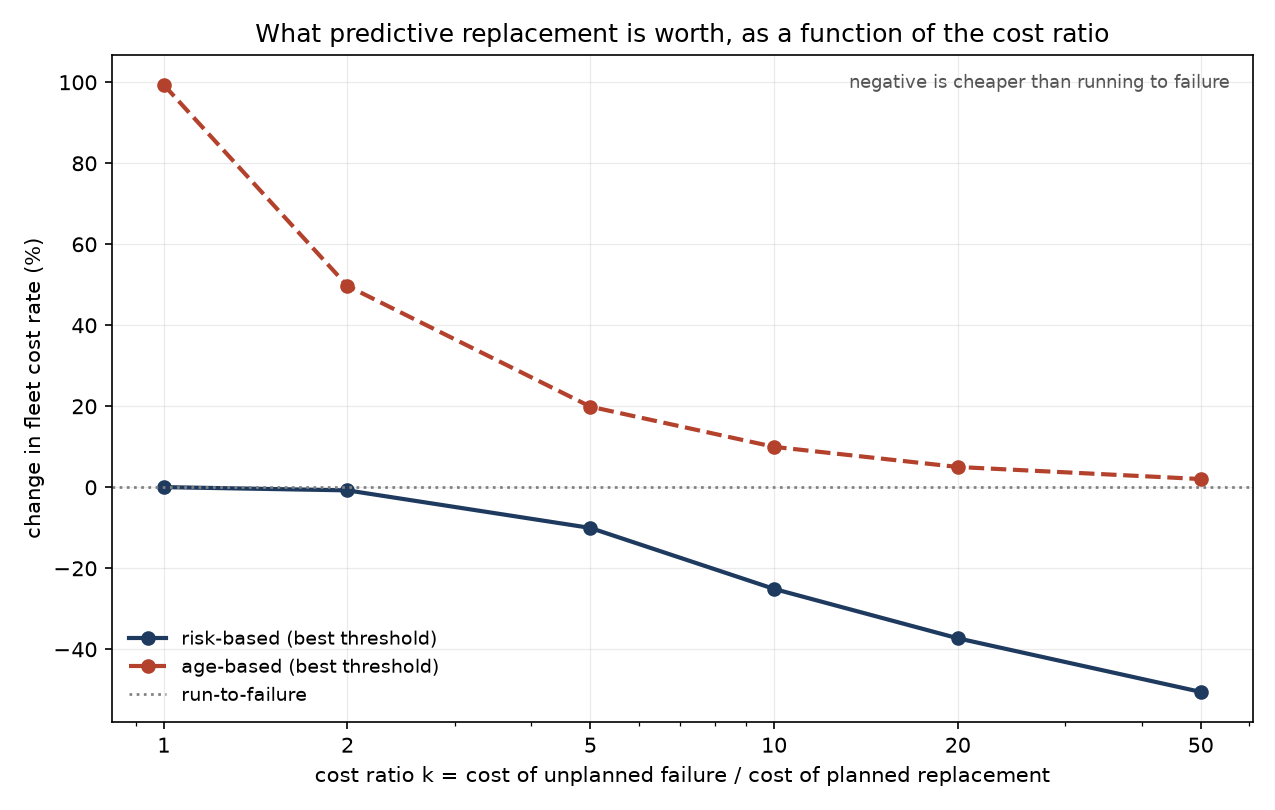
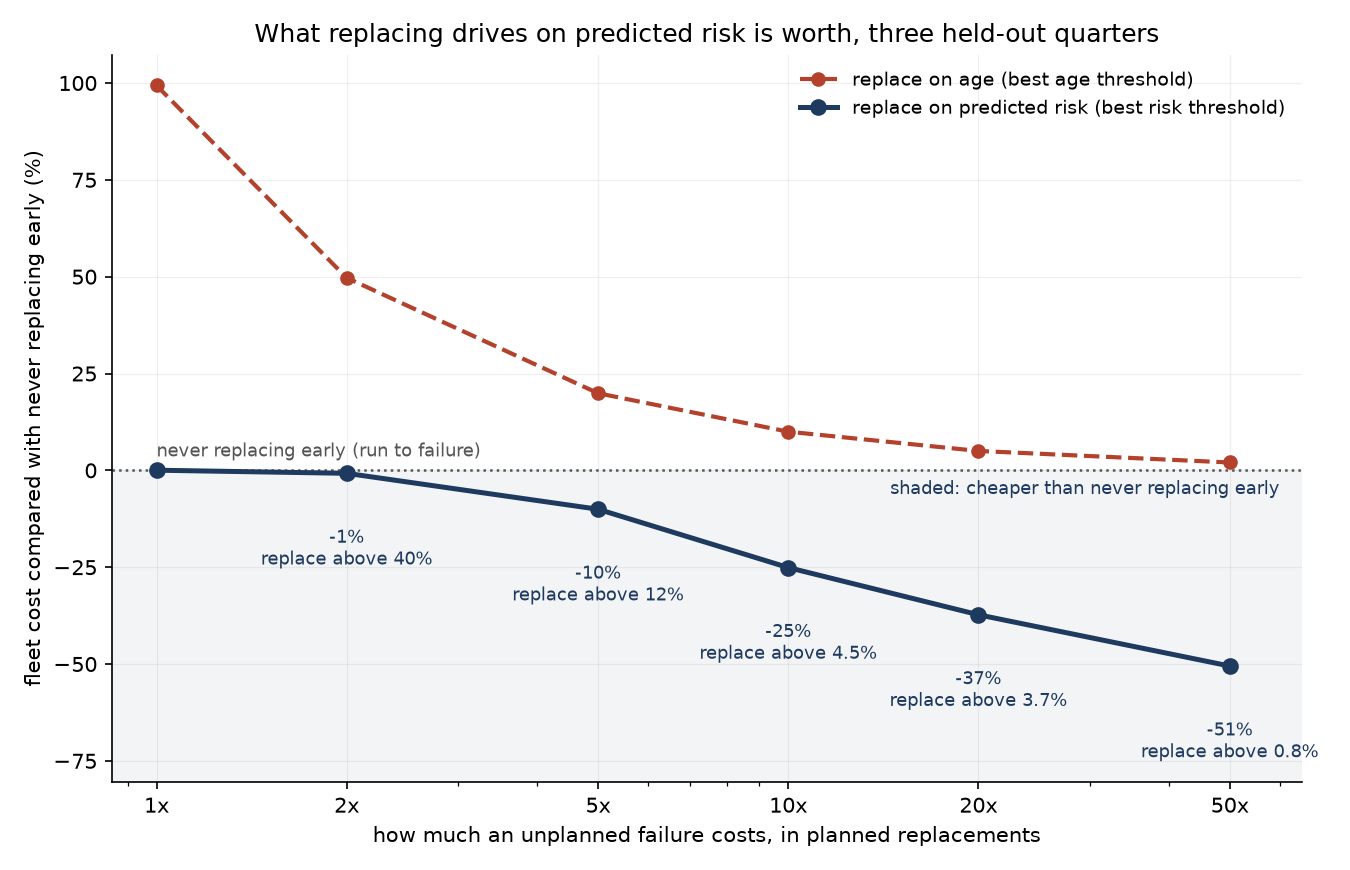
Redraw the headline figure with thresholds labelled and plain-language axes

diff --git a/scripts/s9_decision_layer.py b/scripts/s9_decision_layer.py
@@ -163,11 +163,67 @@ def cost_rate(res: dict, k: float) -> float:
     return (res["replacements"] + k * res["failures"]) / res["served_years"]
 
 
+def plot_value_vs_cost_ratio(best: pd.DataFrame, path: Path) -> None:
+    """The README's first figure: what each policy is worth at each cost ratio.
+
+    Each risk-based point is labelled with its saving and the threshold behind it,
+    so the figure and the README's when-to-replace table read as one thing.
+    Redrawn 2026-10-02 for readability; the numbers are unchanged.
+    """
+    navy, rust = "#1F3A5F", "#B3412C"
+
+    def series(pol):
+        sub = best[best["policy"] == pol].set_index("k")
+        return [float(sub.loc[k, "vs_run_to_failure_pct"]) for k in K_GRID], \
+               [float(sub.loc[k, "parameter"]) for k in K_GRID]
+
+    risk_y, risk_tau = series("risk-based")
+    age_y, _ = series("age-based")
+
+    fig, ax = plt.subplots(figsize=(9, 5.8))
+    lo = min(risk_y) - 30
+    hi = max(age_y) + 8
+    ax.axhspan(lo, 0, color=navy, alpha=0.05, lw=0)
+    ax.axhline(0.0, color="#555555", lw=1.2, ls=":")
+    ax.plot(K_GRID, age_y, "--", marker="o", ms=6, lw=2, color=rust,
+            label="replace on age (best age threshold)")
+    ax.plot(K_GRID, risk_y, "-", marker="o", ms=7, lw=2.4, color=navy,
+            label="replace on predicted risk (best risk threshold)")
+    for k, y, tau in zip(K_GRID, risk_y, risk_tau):
+        if k == 1:
+            continue
+        ax.annotate(f"{y:+.0f}%\nreplace above {100 * tau:.{1 if tau < 0.1 else 0}f}%",
+                    (k, y), xytext=(0, -26), textcoords="offset points",
+                    ha="center", va="top", fontsize=8.5, color=navy)
+    ax.text(1.0, 2.5, "never replacing early (run to failure)", fontsize=8.5,
+            color="#555555", va="bottom")
+    ax.text(60, -2.5, "shaded: cheaper than never replacing early", fontsize=8.5,
+            color=navy, ha="right", va="top")
+    ax.set_xscale("log")
+    ax.set_xticks(K_GRID)
+    ax.set_xticklabels([f"{k}x" for k in K_GRID])
+    ax.set_xlim(0.85, 65)
+    ax.set_ylim(lo, hi)
+    ax.set_xlabel("how much an unplanned failure costs, in planned replacements")
+    ax.set_ylabel("fleet cost compared with never replacing early (%)")
+    ax.set_title("What replacing drives on predicted risk is worth, three held-out quarters")
+    ax.grid(alpha=0.2, lw=0.6)
+    for side in ("top", "right"):
+        ax.spines[side].set_visible(False)
+    ax.legend(fontsize=9, frameon=False, loc="upper right")
+    fig.tight_layout()
+    fig.savefig(path, dpi=150)
+    plt.close(fig)
+
+
 def main() -> int:
     ap = argparse.ArgumentParser(description=__doc__)
     ap.add_argument("--tables", default="data/tables")
     ap.add_argument("--reports", default="reports")
     ap.add_argument("--figures", default="figures")
+    ap.add_argument("--figure-only", action="store_true",
+                    help="redraw s9_value_vs_cost_ratio.png from the saved "
+                         "s9_best_policy_by_k.csv without rerunning the simulation")
     ap.add_argument("--risk-col", default="risk_m2",
                     help="which model's predictions to use; M2 is the best of the ladder")
     args = ap.parse_args()
@@ -175,6 +231,12 @@ def main() -> int:
     tables, reports, figures = Path(args.tables), Path(args.reports), Path(args.figures)
     reports.mkdir(parents=True, exist_ok=True)
     figures.mkdir(parents=True, exist_ok=True)
+
+    if args.figure_only:
+        best = pd.read_csv(reports / "s9_best_policy_by_k.csv")
+        plot_value_vs_cost_ratio(best, figures / "s9_value_vs_cost_ratio.png")
+        print(f"redrew {figures / 's9_value_vs_cost_ratio.png'}")
+        return 0
 
     path = tables / "predictions.parquet"
     if not path.exists():
@@ -344,27 +406,7 @@ def main() -> int:
     plt.close(fig)
 
     # 3. the actual headline: best achievable cost rate against the cost ratio
-    fig, ax = plt.subplots(figsize=(8.5, 5.4))
-    for pol, colour, style in (("risk-based", "#1F3A5F", "-"),
-                               ("age-based", "#B3412C", "--")):
-        ys = [best[(best["k"] == k) & (best["policy"] == pol)]["vs_run_to_failure_pct"].iloc[0]
-              for k in K_GRID]
-        ax.plot(K_GRID, ys, style, marker="o", ms=6, lw=2, color=colour,
-                label=f"{pol} (best threshold)")
-    ax.axhline(0.0, color="grey", lw=1.3, ls=":", label="run-to-failure")
-    ax.set_xscale("log")
-    ax.set_xticks(K_GRID)
-    ax.set_xticklabels([str(k) for k in K_GRID])
-    ax.set_xlabel("cost ratio k = cost of unplanned failure / cost of planned replacement")
-    ax.set_ylabel("change in fleet cost rate (%)")
-    ax.set_title("What predictive replacement is worth, as a function of the cost ratio")
-    ax.grid(alpha=0.25, lw=0.6)
-    ax.legend(fontsize=9, frameon=False, loc="lower left")
-    ax.text(0.98, 0.95, "negative is cheaper than running to failure",
-            transform=ax.transAxes, fontsize=8.5, color="#555555", ha="right")
-    fig.tight_layout()
-    fig.savefig(figures / "s9_value_vs_cost_ratio.png", dpi=150)
-    plt.close(fig)
+    plot_value_vs_cost_ratio(best, figures / "s9_value_vs_cost_ratio.png")
 
     # ------------------------------------------------------------------ headline
     print("\n================ headline ================")

diff --git a/README.md b/README.md
@@ -15,13 +15,18 @@ replacement policy below therefore relies on the ranking, not on the probabiliti
 
 ![What predictive replacement is worth](figures/s9_value_vs_cost_ratio.png)
 
+*Each blue point is the saving at one cost ratio, labelled with the risk threshold
+that achieves it; the red line is the best that replacing on age can do. The same
+numbers are in the table below.*
+
 **The answer.** If an unplanned failure costs ten times as much as a planned
 replacement, replacing drives on predicted risk lowers the simulated fleet cost
 rate by 25% over the three held-out quarters; by 10% at a cost ratio of 5, 37% at
 20 and 51% at 50, and by under 1% at 2. These figures use the threshold that turned
-out best on those quarters. Choosing it in advance, on an earlier quarter, costs at
-most 1.7 percentage points. The saving also depends on how long the policy is
-simulated: one quarter at a time it is 8 to 19% at a cost ratio of 10.
+out best on those quarters. Choosing it in advance instead, on an earlier quarter,
+gives up at most 1.7 percentage points compared with hindsight over the same later
+quarters. The saving also depends on how long the policy is simulated: one quarter
+at a time it is 8 to 19% at a cost ratio of 10, so the 25% is not a fixed rate.
 
 **The value comes from the telemetry.** The same policy run on the drive-model-and-age
 model alone saves nothing up to a cost ratio of 20, and 0.7% at 50. Replacing on age
@@ -34,18 +39,19 @@ planned replacement:
 
 | a failure costs | replace when predicted 30-day risk exceeds | saving |
 |---|---|---|
-| 2 × a planned swap | about 40% | under 1%: run drives to failure |
+| 2 × a planned swap | about 40%, which almost no drive reaches | under 1%: in practice, run drives to failure |
 | 5 × | about 12% | 10% |
 | 10 × | about 4.5% | 25% |
 | 20 × | about 3.7% | 37% |
 | 50 × | about 0.8% | 51% |
 
 The more a failure costs, the earlier you act. What pushes a drive over the line is
-mostly a non-zero or rising pending sector count, then a rise in reallocated sectors;
-age does not. Two caveats: the thresholds are on the model's own scale, which runs
-about half as high again as true risk, so they are not true probabilities; and they
-were chosen in hindsight. Chosen in advance on an earlier quarter they are somewhat
-higher (about 20% at a cost ratio of 5, 7% at 10) and save up to 1.7 points less.
+mostly a non-zero or rising pending sector count, then a rise in reallocated sectors.
+Age and drive model set the baseline the score starts from, but on their own they
+never justify a replacement. Two caveats: the thresholds are on the model's own
+scale, which runs about half as high again as true risk, so they are not true
+probabilities; and they were chosen in hindsight. Chosen in advance on an earlier
+quarter they are somewhat higher (about 20% at a cost ratio of 5, 7% at 10).
 
 ---
 
